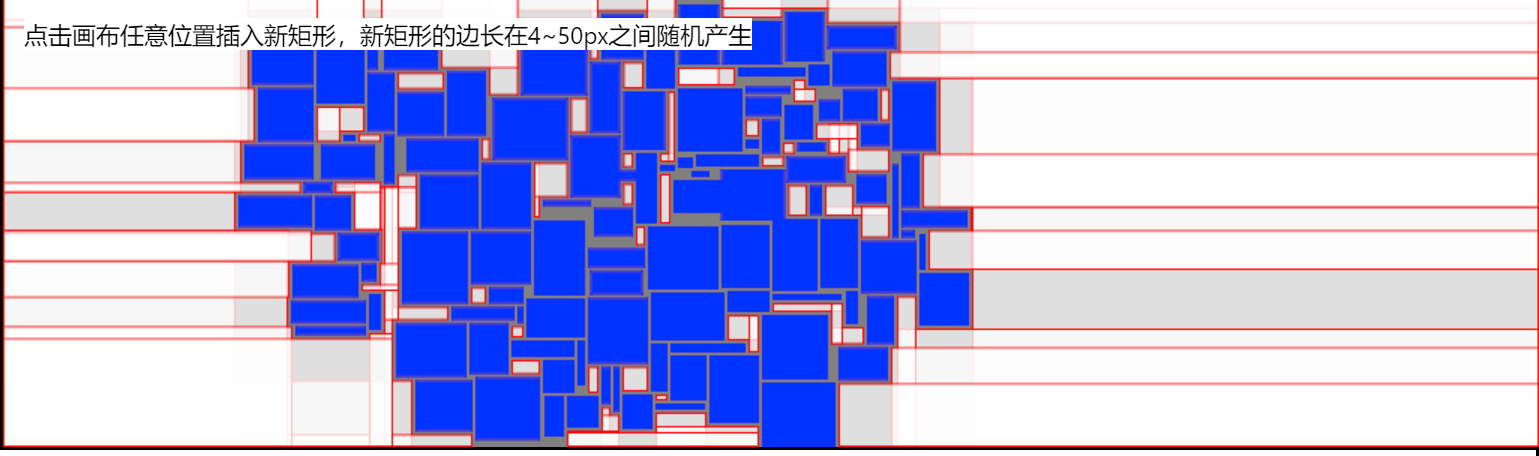
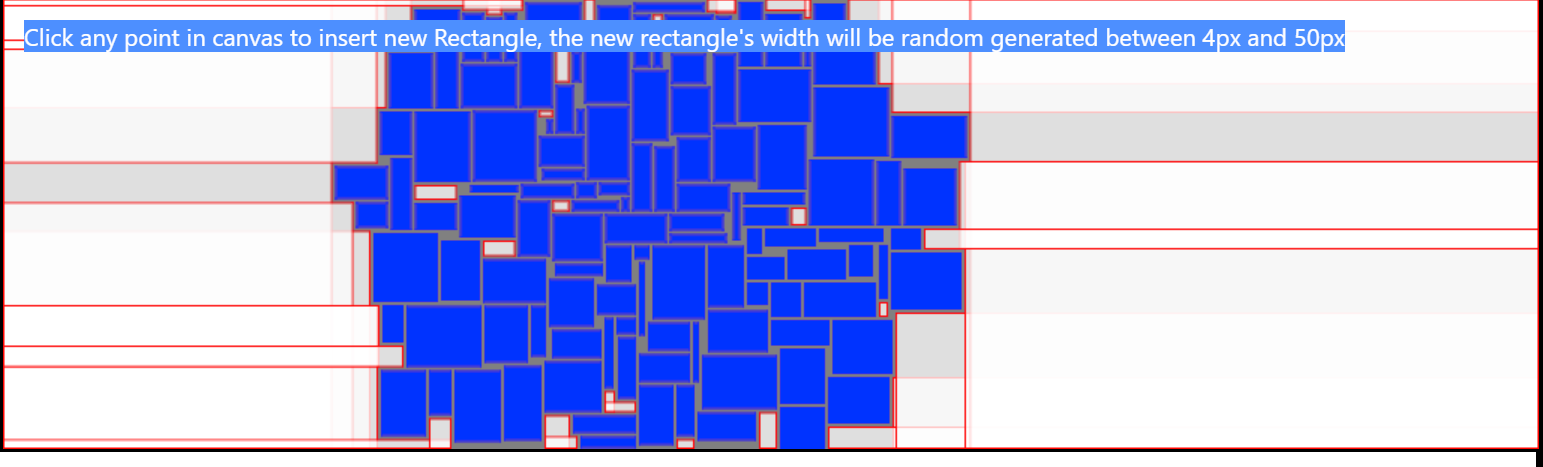
update README

diff --git a/src/demo/InsertRectangleDemo.tsx b/src/demo/InsertRectangleDemo.tsx
@@ -75,7 +75,7 @@ const InsertRectangleDemo: React.FunctionComponent = (): JSX.Element => {
 
   return (
     <>
-      <div className="info">点击画布任意位置插入新矩形，新矩形的边长在{MIN_WIDTH}~{MAX_S}px之间随机产生</div>
+      <div className="info">Click any point in canvas to insert new Rectangle, the new rectangle's width will be random generated between {MIN_WIDTH}px and {MAX_S}px</div>
       <canvas id="canvas" ref={canvasRef} onClick={enableClick? insertBoxForTarget : insertNothing}></canvas>
     </>
   )

diff --git a/README.md b/README.md
@@ -1,6 +1,6 @@
 # Insert Rectangle Demo
 
-React + Typescript
+An algorithm for inserting disjoint rectangles
 
 ## Run
 
